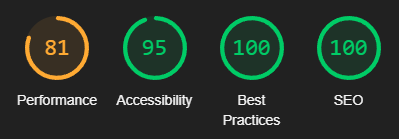
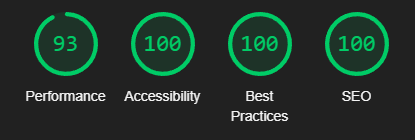
Add legend elements to form

diff --git a/eligibility.html b/eligibility.html
@@ -124,7 +124,7 @@
             <!-- General Details -->
             <fieldset>
               <div class="general-details">
-                <p class="general-details-header">General Details</p>
+                <h2 class="general-details-header">General Details</h2>
                 <div class="general-details-first">
                   <label
                     for="name-of-dog"
@@ -210,11 +210,9 @@
                   />
                 </div>
                 <fieldset class="general-details-third">
-                  <div class="general-details-third-legend-container">
-                    <p class="general-details-third-header-container">
-                      Have they been neutered or spayed?
-                    </p>
-                  </div>
+                  <legend class="general-details-third-header-container">
+                    Have they been neutered or spayed?
+                  </legend>
                   <div class="general-details-third-radio-container">
                     <label for="neutered-yes" class="neutered-yes"
                       >Yes
@@ -240,11 +238,9 @@
                 </fieldset>
               </div>
               <fieldset class="general-details-fourth">
-                <div class="general-details-fourth-legend-container">
-                  <p class="general-details-fourth-header-container">
-                    Any existing medical conditions?
-                  </p>
-                </div>
+                <legend class="general-details-fourth-header-container">
+                  Any existing medical conditions?
+                </legend>
                 <div class="general-details-fourth-radio-container">
                   <label for="medical-yes" class="medical-yes"
                     >Yes
@@ -273,11 +269,9 @@
             <fieldset class="vaccinations">
               <legend class="vaccinations-header">Vaccinations</legend>
               <fieldset class="vaccinations-first">
-                <div class="vaccinations-first-header-container">
-                  <p class="vaccinations-first-header">
-                    Is your dog up-to-date on vaccinations?
-                  </p>
-                </div>
+                <legend class="vaccinations-first-header">
+                  Is your dog up-to-date on vaccinations?
+                </legend>
                 <div class="vaccinations-first-radio-container">
                   <label for="vaccinated-yes" class="vaccinated-yes"
                     >Yes
@@ -302,11 +296,9 @@
                 </div>
               </fieldset>
               <fieldset class="vaccinations-second">
-                <div class="vaccinations-second-header-container">
-                  <p class="vaccinations-second-header">
-                    Received recent treatment for ticks/fleas?
-                  </p>
-                </div>
+                <legend class="vaccinations-second-header">
+                  Received recent treatment for ticks/fleas?
+                </legend>
                 <div class="vaccinations-second-radio-container">
                   <label
                     for="received-recent-treatment-yes"
@@ -340,11 +332,9 @@
             <fieldset class="behavior">
               <legend class="behavior-header">Behavior</legend>
               <fieldset class="behavior-first">
-                <div class="behavior-first-header-container">
-                  <p class="behavior-first-header">
-                    How does your dog typically interact with other dogs?
-                  </p>
-                </div>
+                <legend class="behavior-first-header">
+                  How does your dog typically interact with other dogs?
+                </legend>
                 <div class="behavior-first-radio-container">
                   <label for="interactions-superb" class="interactions-superb"
                     >Superb
@@ -403,11 +393,9 @@
                 </div>
               </fieldset>
               <fieldset class="behavior-second">
-                <div class="behavior-second-header-container">
-                  <p class="behavior-second-header">
-                    How does your dog typically interact with other people?
-                  </p>
-                </div>
+                <legend class="behavior-second-header">
+                  How does your dog typically interact with other people?
+                </legend>
                 <div class="behavior-second-radio-container">
                   <label for="interactions-superb2" class="interactions-superb"
                     >Superb
@@ -470,11 +458,9 @@
             <fieldset class="socialization">
               <legend class="socialization-header">Socialization</legend>
               <fieldset class="socialization-first">
-                <div class="socialization-first-header-container">
-                  <p class="socialization-first-header">
-                    Have they previously attended a daycare?
-                  </p>
-                </div>
+                <legend class="socialization-first-header">
+                  Have they previously attended a daycare?
+                </legend>
                 <div class="socialization-first-radio-container">
                   <label
                     for="attended-day-care-yes"
@@ -501,11 +487,9 @@
                 </div>
               </fieldset>
               <fieldset class="socialization-second">
-                <div class="socialization-second-header-container">
-                  <p class="socialization-second-header">
-                    Knowledge of commands?
-                  </p>
-                </div>
+                <legend class="socialization-second-header">
+                  Knowledge of commands?
+                </legend>
                 <div class="socialization-second-radio-container">
                   <label for="basic-commands-sit" class="basic-commands-sit"
                     >Sit

diff --git a/assets/css/style.css b/assets/css/style.css
@@ -38,6 +38,10 @@ fieldset {
   border: none;
 }
 
+legend {
+  display: contents;
+}
+
 .hidden-heading {
   display: none;
 }
@@ -458,6 +462,7 @@ header {
 .socialization-second {
   margin-top: 10px;
   display: flex;
+  align-items: center;
   justify-content: space-between;
   gap: 0.1rem;
 }
@@ -539,8 +544,7 @@ header {
 .vaccinations-second-header-container,
 .behavior-first-header-container {
   padding-left: 5px;
-  display: flex;
-  align-items: center;
+  vertical-align: baseline;
 }
 
 .behavior-first-header-container,
@@ -548,18 +552,19 @@ header {
   width: 50%;
 }
 
-.general-details-third-header-container p,
-.general-details-fourth-header-container p,
-.vaccinations-first-header-container p,
-.vaccinations-second-header-container p,
-.behavior-first-header-container p,
-.behavior-second-header-container p,
-.socialization-first-header-container p,
-.socialization-second-header-container p {
+.general-details-third-header-container legend,
+.general-details-fourth-header-container legend,
+.vaccinations-first-header-container legend,
+.vaccinations-second-header-container legend,
+.behavior-first-header-container legend,
+.behavior-second-header-container legend,
+.socialization-first-header-container legend,
+.socialization-second-header-container legend {
   color: #131313;
   margin-left: 3px;
   font-weight: 500;
   font-size: 1rem;
+  vertical-align: baseline;
 }
 
 .socialization-first-header-container h3,

diff --git a/TESTING.md b/TESTING.md
@@ -70,6 +70,7 @@ During development i tested my project in various ways such as:
 _HTML_ - [https://validator.w3.org/nu/](https://validator.w3.org/nu/) <a name="HTML"></a>
 
 - All pages tested, no issue found.
+- The validator does not like the fact that i have "/" at the end of my elements, but because of my prettier extension it adds them back when i remove it.
 
 _CSS_ - [https://jigsaw.w3.org/css-validator/](https://jigsaw.w3.org/css-validator/) <a name="CSS"></a>
 
